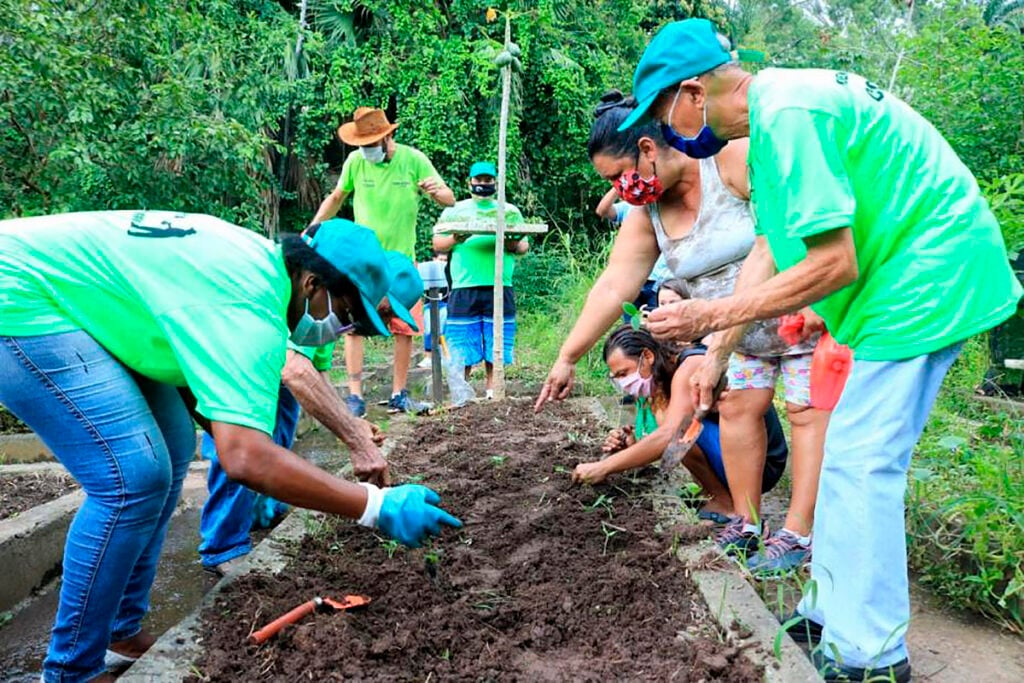
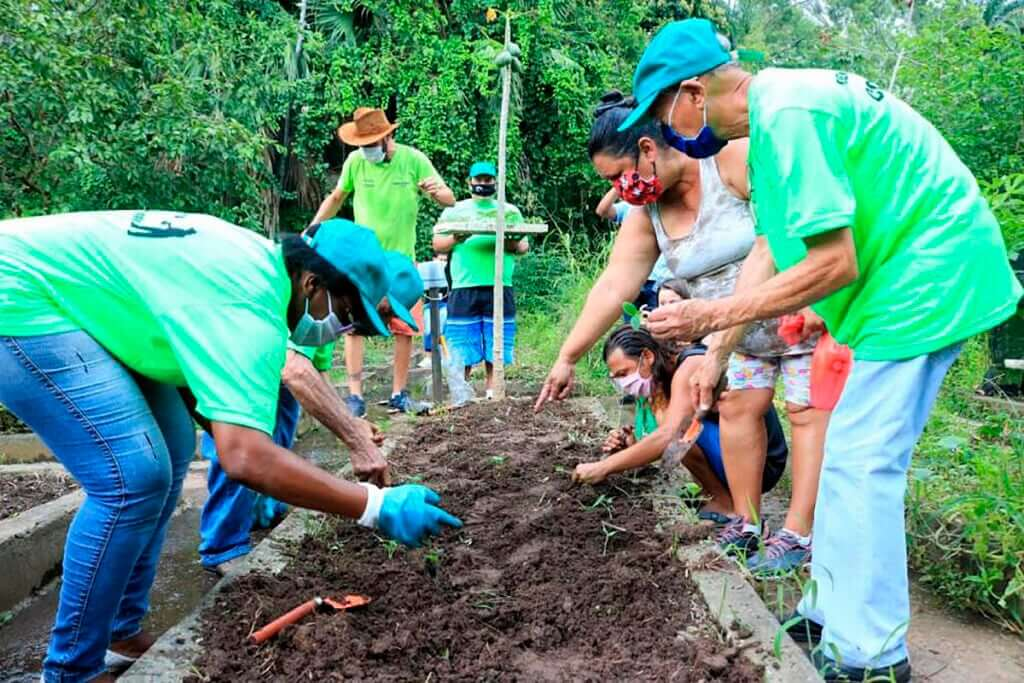
perf(build): minifica CSS/JS e comprime imagens

diff --git a/css/5-components.min.css b/css/5-components.min.css
@@ -1,0 +1,1 @@
+.btn{padding:var(--space-2) var(--space-3);border:none;border-radius:var(--border-radius-padrao);font-weight:700;font-family:var(--fonte-titulos);cursor:pointer;text-decoration:none;display:inline-block;transition:all .3s ease}.btn-primario{background-color:var(--cor-primaria-escura);color:var(--cor-branco)}.btn-primario:hover{background-color:#1a7d73}.btn-primario:focus{outline:3px solid var(--cor-primaria-media)}.btn-primario:active{transform:scale(.98)}.btn-primario:disabled{background-color:#ccc;cursor:not-allowed}.btn-acento-doar{background-color:var(--cor-acento-doar);color:var(--cor-texto)}.btn-acento-doar:hover{background-color:#d4b25e}.card-projeto{background:var(--cor-branco);border-radius:var(--border-radius-padrao);box-shadow:var(--shadow-padrao);overflow:hidden;display:flex;flex-direction:column;height:100%}.card-projeto img{width:100%;height:220px;object-fit:cover}.card-conteudo{padding:var(--space-3);display:flex;flex-direction:column;flex-grow:1}.card-conteudo h3{font-family:var(--fonte-titulos);font-size:var(--fs-h3);margin-top:var(--space-1);color:var(--cor-primaria-escura)}.card-conteudo .btn{margin-top:auto;width:fit-content}.badge{padding:4px var(--space-2);font-size:var(--fs-small);border-radius:50px;font-weight:700;display:inline-block;margin-bottom:var(--space-2)}.badge-horta{background-color:var(--cor-primaria-clara);color:var(--cor-primaria-escura)}.badge-reciclagem{background-color:#e6f0f8;color:var(--cor-secundaria)}.form-cadastro{background:var(--cor-branco);padding:var(--space-6);border-radius:var(--border-radius-padrao);box-shadow:var(--shadow-padrao)}.form-cadastro fieldset{border:1px solid #ccc;border-radius:var(--border-radius-padrao);padding:var(--space-3);margin-bottom:var(--space-3)}.form-cadastro legend{font-size:var(--fs-h2);font-weight:700;color:var(--cor-primaria-escura);padding:0 var(--space-2)}.form-grupo-duplo{display:grid;grid-template-columns:1fr 1fr;gap:var(--space-3)}.form-campo{margin-bottom:var(--space-3)}.form-campo label{display:block;margin-bottom:var(--space-1);font-weight:700}.form-campo input,.form-campo select{width:100%;padding:var(--space-2);border:1px solid #ccc;border-radius:var(--border-radius-padrao);font-size:var(--fs-body)}.form-campo input:focus{border-color:var(--cor-primaria-escura);outline:2px solid var(--cor-primaria-clara)}.form-campo input:invalid:not(:placeholder-shown){border-color:#d32f2f}.form-campo input:valid{border-color:#4caf50}.alert{padding:var(--space-3);border-radius:var(--border-radius-padrao);font-weight:700;text-align:center}.alert-sucesso{background:#d4edda;color:#155724}.alert-erro{background:#f8d7da;color:#721c24}.banner{position:relative;width:100%;height:60vh;background-color:var(--cor-secundaria)}.banner img{width:100%;height:100%;object-fit:cover;filter:brightness(.7)}.banner h2{position:absolute;top:50%;left:50%;transform:translate(-50%,-50%);color:var(--cor-branco);font-size:var(--fs-h1);font-family:var(--fonte-titulos);text-align:center;width:80%;text-shadow:2px 2px 4px rgba(0,0,0,.5)}.nossos-pilares{background-color:var(--cor-primaria-clara);padding:var(--space-6) 0;margin:var(--space-6) 0}.nossos-pilares article{background:var(--cor-branco);padding:var(--space-4);border-radius:var(--border-radius-padrao);box-shadow:var(--shadow-padrao);height:100%}.nossos-pilares h3{color:var(--cor-primaria-escura);font-family:var(--fonte-titulos);font-size:var(--fs-h3);margin-bottom:var(--space-2)}.btn-acento-voluntario{background-color:var(--cor-acento-voluntario);color:var(--cor-texto)}.btn-acento-voluntario:hover{background-color:#e08f4a}

diff --git a/index.html b/index.html
@@ -4,13 +4,13 @@
     <meta charset="UTF-8">
     <meta name="viewport" content="width=device-width, initial-scale=1.0">
     
-    <link rel="stylesheet" href="css/1-reset.css">
-    <link rel="stylesheet" href="css/2-design-system.css">
-    <link rel="stylesheet" href="css/3-layout.css">
-    <link rel="stylesheet" href="css/4-navigation.css">
-    <link rel="stylesheet" href="css/5-components.css">
-    <link rel="stylesheet" href="css/6-responsive.css">
-    <link rel="stylesheet" href="css/7-accessibility.css">
+    <link rel="stylesheet" href="css/1-reset.min.css">
+    <link rel="stylesheet" href="css/2-design-system.min.css">
+    <link rel="stylesheet" href="css/3-layout.min.css">
+    <link rel="stylesheet" href="css/4-navigation.min.css">
+    <link rel="stylesheet" href="css/5-components.min.css">
+    <link rel="stylesheet" href="css/6-responsive.min.css">
+    <link rel="stylesheet" href="css/7-accessibility.min.css">
     
     <title>EcoCidadania - Cidades Verdes, Futuro Sustentável</title>
 </head>
@@ -18,7 +18,7 @@
 
     <header class="main-header">
         <nav class="navbar container">
-            <a href="#/" class="navbar-logo"> <img src="imagens/logo-ecocidadania.png" alt="Logo EcoCidadania">
+            <a href="#/" class="navbar-logo"> <img src="imagens/logo-ecocidadania.avif" alt="Logo EcoCidadania">
             </a>
             
             <ul class="navbar-menu">
@@ -41,6 +41,6 @@
     <footer>
         </footer>
 
-    <script type="module" src="js/main.js"></script>
+    <script type="module" src="js/main.min.js"></script>
 </body>
 </html>

diff --git a/js/validation.min.js b/js/validation.min.js
@@ -1,0 +1,1 @@
+function mostrarErro(r,e){const t=r.parentElement,o=t.querySelector(".form-error");o.textContent=e,r.classList.add("input-error")}function limparErros(){document.querySelectorAll(".form-error").forEach(r=>r.textContent=""),document.querySelectorAll(".input-error").forEach(r=>r.classList.remove("input-error")),document.getElementById("form-status-alert").innerHTML=""}function mostrarAlertaGeral(r,e){const t=document.getElementById("form-status-alert"),o=r?"alert-sucesso":"alert-erro";t.innerHTML=`<div class="alert ${o}">${e}</div>`}function validarEmail(r){const e=/^[^\s@]+@[^\s@]+\.[^\s@]+$/;return e.test(String(r).toLowerCase())}export const inicializarValidacao=()=>{const r=document.getElementById("form-de-cadastro");r&&r.addEventListener("submit",e=>{e.preventDefault(),limparErros();let t=!0;const o=document.getElementById("nome");o.value.trim().length<3&&(mostrarErro(o,"O nome deve ter pelo menos 3 caracteres."),t=!1);const a=document.getElementById("email");validarEmail(a.value)||(mostrarErro(a,"Por favor, insira um e-mail válido."),t=!1),t?(mostrarAlertaGeral(!0,"Cadastro enviado com sucesso! Entraremos em contato."),r.reset()):mostrarAlertaGeral(!1,"Por favor, corrija os erros no formulário.")})};

diff --git a/css/6-responsive.min.css b/css/6-responsive.min.css
@@ -1,0 +1,1 @@
+@media (max-width:992px){.col-md-6{grid-column:span 6}.col-md-12{grid-column:span 12}}@media (max-width:768px){.menu-toggle-label{display:block}.menu-toggle-label span,.menu-toggle-label span::after,.menu-toggle-label span::before{display:block;width:25px;height:3px;background-color:var(--cor-texto);position:relative;transition:transform .3s ease}.menu-toggle-label span::after,.menu-toggle-label span::before{content:'';position:absolute}.menu-toggle-label span::before{top:-8px}.menu-toggle-label span::after{top:8px}.navbar-menu{display:none;position:absolute;top:100%;left:0;width:100%;background:var(--cor-branco);flex-direction:column;align-items:flex-start;padding:var(--space-2);box-shadow:var(--shadow-padrao)}.menu-toggle-cb:checked~.navbar-menu{display:flex}.dropdown{width:100%}.submenu{position:static;box-shadow:none;padding-left:var(--space-3)}.col-sm-12{grid-column:span 12}.secao-destaque .row{display:flex;flex-direction:column}.form-grupo-duplo{grid-template-columns:1fr}}@media (max-width:576px){:root{--fs-h1:2.5rem;--fs-h2:1.75rem}.container{padding-top:var(--space-4);padding-bottom:var(--space-4)}.form-cadastro{padding:var(--space-3)}}

diff --git a/js/views/projetos.js b/js/views/projetos.js
@@ -22,7 +22,7 @@ export const projetosView = `
 
                     <div class="col-4 col-md-6 col-sm-12">
                         <div class="card-projeto">
-                            <img src="imagens/projeto-reciclagem.jpg" alt="Três lixeiras coloridas...">
+                            <img src="imagens/projeto-reciclagem.webp" alt="Três lixeiras coloridas...">
                             <div class="card-conteudo">
                                 <span class="badge badge-reciclagem">Reciclagem</span>
                                 <h3>Reciclagem Consciente</h3>
@@ -49,7 +49,7 @@ export const projetosView = `
             <section id="voluntariado" class="secao-destaque">
                 <div class="row">
                     <div class="col-6 col-md-12">
-                        <img src="imagens/banner-voluntariado.jpg" alt="Um grupo diverso de voluntários sorrindo...">
+                        <img src="imagens/banner-voluntariado.avif" alt="Um grupo diverso de voluntários sorrindo...">
                     </div>
                     <div class="col-6 col-md-12">
                         <h2>Seja um Voluntário</h2>

diff --git a/css/3-layout.min.css b/css/3-layout.min.css
@@ -1,0 +1,1 @@
+body{display:grid;grid-template-rows:auto 1fr auto;grid-template-areas:"header" "main" "footer";min-height:100vh;font-family:var(--fonte-corpo);background-color:var(--cor-fundo);color:var(--cor-texto)}header{grid-area:header}main{grid-area:main}footer{grid-area:footer;background-color:var(--cor-secundaria);color:var(--cor-branco);padding:var(--space-4)}.container{width:90%;max-width:1200px;margin-left:auto;margin-right:auto;padding-top:var(--space-6);padding-bottom:var(--space-6)}.navbar.container,footer .container{padding-top:var(--space-2);padding-bottom:var(--space-2)}.row{display:grid;grid-template-columns:repeat(12,1fr);gap:var(--space-3)}.col-1{grid-column:span 1}.col-2{grid-column:span 2}.col-3{grid-column:span 3}.col-4{grid-column:span 4}.col-5{grid-column:span 5}.col-6{grid-column:span 6}.col-7{grid-column:span 7}.col-8{grid-column:span 8}.col-9{grid-column:span 9}.col-10{grid-column:span 10}.col-11{grid-column:span 11}.col-12{grid-column:span 12}

diff --git a/css/4-navigation.min.css b/css/4-navigation.min.css
@@ -1,0 +1,1 @@
+.main-header{background:var(--cor-branco);box-shadow:var(--shadow-padrao);position:sticky;top:0;z-index:100}.navbar{display:flex;justify-content:space-between;align-items:center;padding-top:var(--space-2);padding-bottom:var(--space-2)}.navbar-logo img{height:50px}.navbar-menu{display:flex;align-items:center;list-style:none;gap:var(--space-3)}.dropdown{position:relative}.submenu{display:none;position:absolute;top:100%;left:0;background:var(--cor-branco);box-shadow:var(--shadow-padrao);list-style:none;padding:var(--space-1);margin:0;min-width:200px;border-radius:0 0 var(--border-radius-padrao) var(--border-radius-padrao)}.dropdown:hover .submenu{display:block}.submenu li a{padding:var(--space-2);display:block}.menu-toggle-cb{display:none}.menu-toggle-label{display:none;cursor:pointer}

diff --git a/js/router.min.js b/js/router.min.js
@@ -1,0 +1,10 @@
+import{homeView}from"./views/home.min.js";
+import{projetosView}from"./views/projetos.min.js";
+import{cadastroView}from"./views/cadastro.min.js";
+import{inicializarValidacao}from"./validation.min.js";
+const rootElement=document.getElementById("app-root"),
+routes={"/":homeView,"/projetos":projetosView,"/cadastro":cadastroView};
+export const handleRoute=()=>
+    {const o=window.location.hash.substring(1)||"/",[t,e]=o.split("#"),i=routes[t]||"<h2>Página não encontrada</h2>";
+        if(rootElement.innerHTML=i,e){const o=document.getElementById(e);
+            o&&setTimeout(()=>{o.scrollIntoView({behavior:"smooth"})},0)}"/cadastro"===t&&inicializarValidacao()};

diff --git a/css/2-design-system.min.css b/css/2-design-system.min.css
@@ -1,0 +1,1 @@
+:root{--cor-primaria-escura:#2A9D8F;--cor-primaria-media:#60B98A;--cor-primaria-clara:#EBF8F5;--cor-secundaria:#264653;--cor-acento-doar:#E9C46A;--cor-acento-voluntario:#F4A261;--cor-texto:#333333;--cor-fundo:#F9F9F9;--cor-branco:#FFFFFF;--fonte-titulos:'Montserrat',sans-serif;--fonte-corpo:'Open Sans',sans-serif;--fs-h1:3rem;--fs-h2:2.25rem;--fs-h3:1.5rem;--fs-body:1rem;--fs-small:0.875rem;--space-1:8px;--space-2:16px;--space-3:24px;--space-4:32px;--space-6:48px;--space-8:64px;--border-radius-padrao:8px;--shadow-padrao:0 4px 12px rgba(0, 0, 0, 0.08)}

diff --git a/js/themeToggle.min.js b/js/themeToggle.min.js
@@ -1,0 +1,1 @@
+const toggleButton=document.getElementById("theme-toggle"),htmlElement=document.documentElement,applyTheme=e=>{htmlElement.setAttribute("data-theme",e),localStorage.setItem("theme",e)},savedTheme=localStorage.getItem("theme")||"light";applyTheme(savedTheme);export const initThemeToggle=()=>{toggleButton&&toggleButton.addEventListener("click",()=>{const e=htmlElement.getAttribute("data-theme"),t="light"===e?"dark":"light";applyTheme(t)})};

diff --git a/css/7-accessibility.min.css b/css/7-accessibility.min.css
@@ -1,0 +1,1 @@
+[data-theme=dark]{--cor-fundo:#121212;--cor-texto:#FAFAFA;--cor-branco:#222222;--cor-primaria-clara:#333;--cor-primaria-escura:#33FFBB;--cor-secundaria:#559FFF;--cor-acento-doar:#FFF500;--cor-acento-voluntario:#FF9F44}.card-projeto,.form-cadastro,.nossos-pilares article,body{transition:background-color .3s ease,color .3s ease}

diff --git a/js/main.min.js b/js/main.min.js
@@ -1,0 +1,4 @@
+import{handleRoute}from"./router.min.js"; 
+import{initThemeToggle}from"./themeToggle.min.js"; 
+window.addEventListener("hashchange",handleRoute);
+window.addEventListener("load",()=>{handleRoute();initThemeToggle();});
